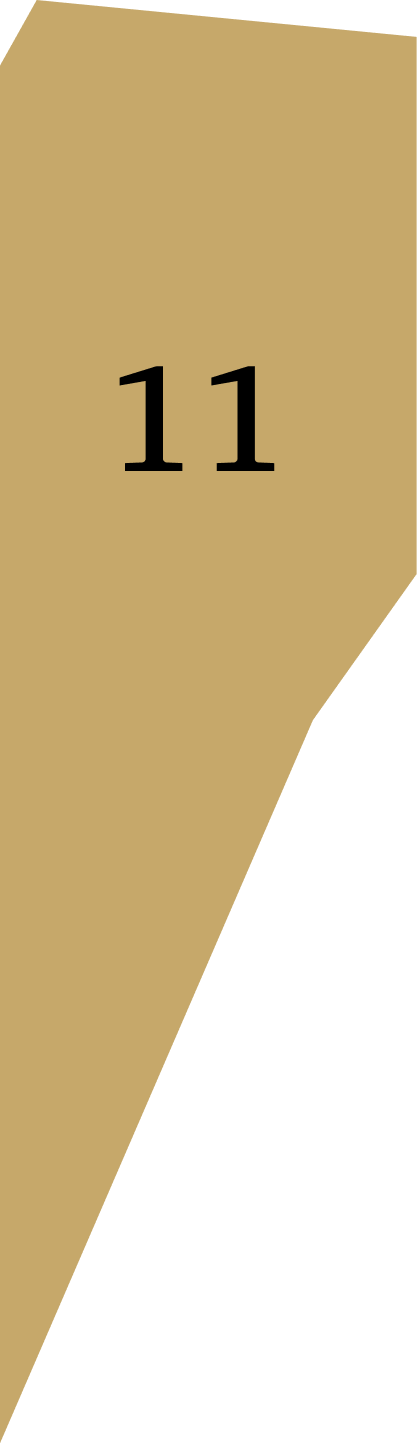
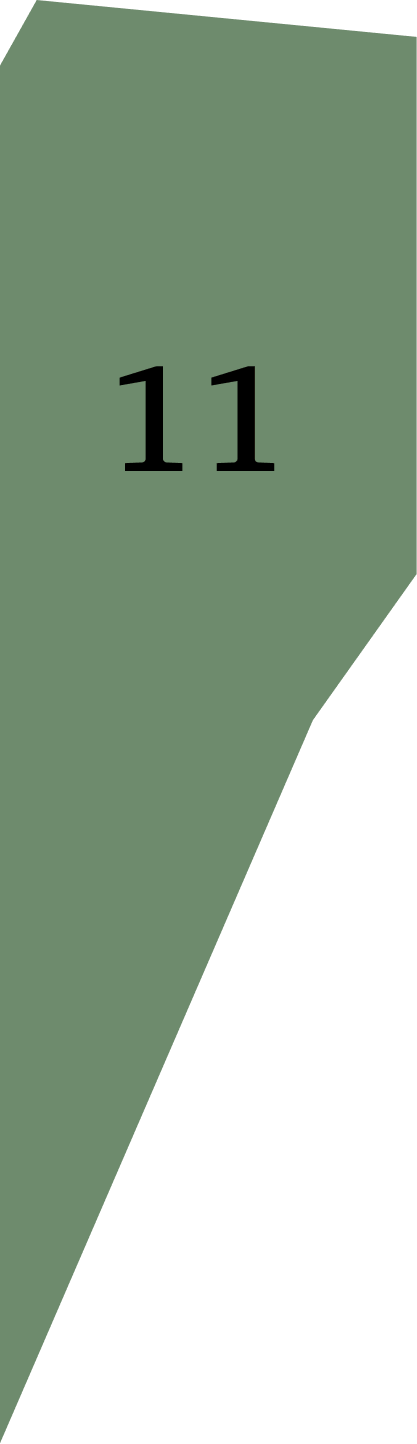
Recolor all map area shapes to match Shape 4 green (#6e8b6d)

diff --git a/js/map-fence.js b/js/map-fence.js
@@ -1128,7 +1128,7 @@
             svg =
                 '<svg xmlns="http://www.w3.org/2000/svg" viewBox="0 0 ' + W + ' ' + H + '" width="' + W + '" height="' + H + '">' +
                 '<defs><clipPath id="areaClip"><polygon points="' + ptAttr + '"/></clipPath></defs>' +
-                '<polygon points="' + ptAttr + '" fill="#cfe3c9"/>' +
+                '<polygon points="' + ptAttr + '" fill="#6e8b6d"/>' +
                 '<g clip-path="url(#areaClip)">' +
                 '<polygon points="' + ptAttr + '" fill="none" stroke="#1e3a29" stroke-width="18" stroke-dasharray="12 8" opacity="0.16"/>' +
                 '<polygon points="' + ptAttr + '" fill="none" stroke="#2d4a36" stroke-width="10" stroke-linejoin="miter"/>' +
@@ -1138,7 +1138,7 @@
         } else {
             svg =
                 '<svg xmlns="http://www.w3.org/2000/svg" viewBox="0 0 ' + W + ' ' + H + '" width="' + W + '" height="' + H + '">' +
-                '<rect x="3" y="3" width="' + (W - 6) + '" height="' + (H - 6) + '" fill="#cfe3c9" stroke="#2d4a36" stroke-width="6"/>' +
+                '<rect x="3" y="3" width="' + (W - 6) + '" height="' + (H - 6) + '" fill="#6e8b6d" stroke="#2d4a36" stroke-width="6"/>' +
                 '<rect x="14" y="14" width="' + (W - 28) + '" height="' + (H - 28) + '" fill="none" stroke="#2d4a36" stroke-width="2" stroke-dasharray="12 8" opacity="0.55"/>' +
                 '<text x="' + (W / 2) + '" y="' + (H / 2 + fontSize / 3) + '" text-anchor="middle" font-family="Arial, sans-serif" font-weight="700" font-size="' + fontSize + '" fill="#1e3a29">' + label + '</text>' +
                 '</svg>';
